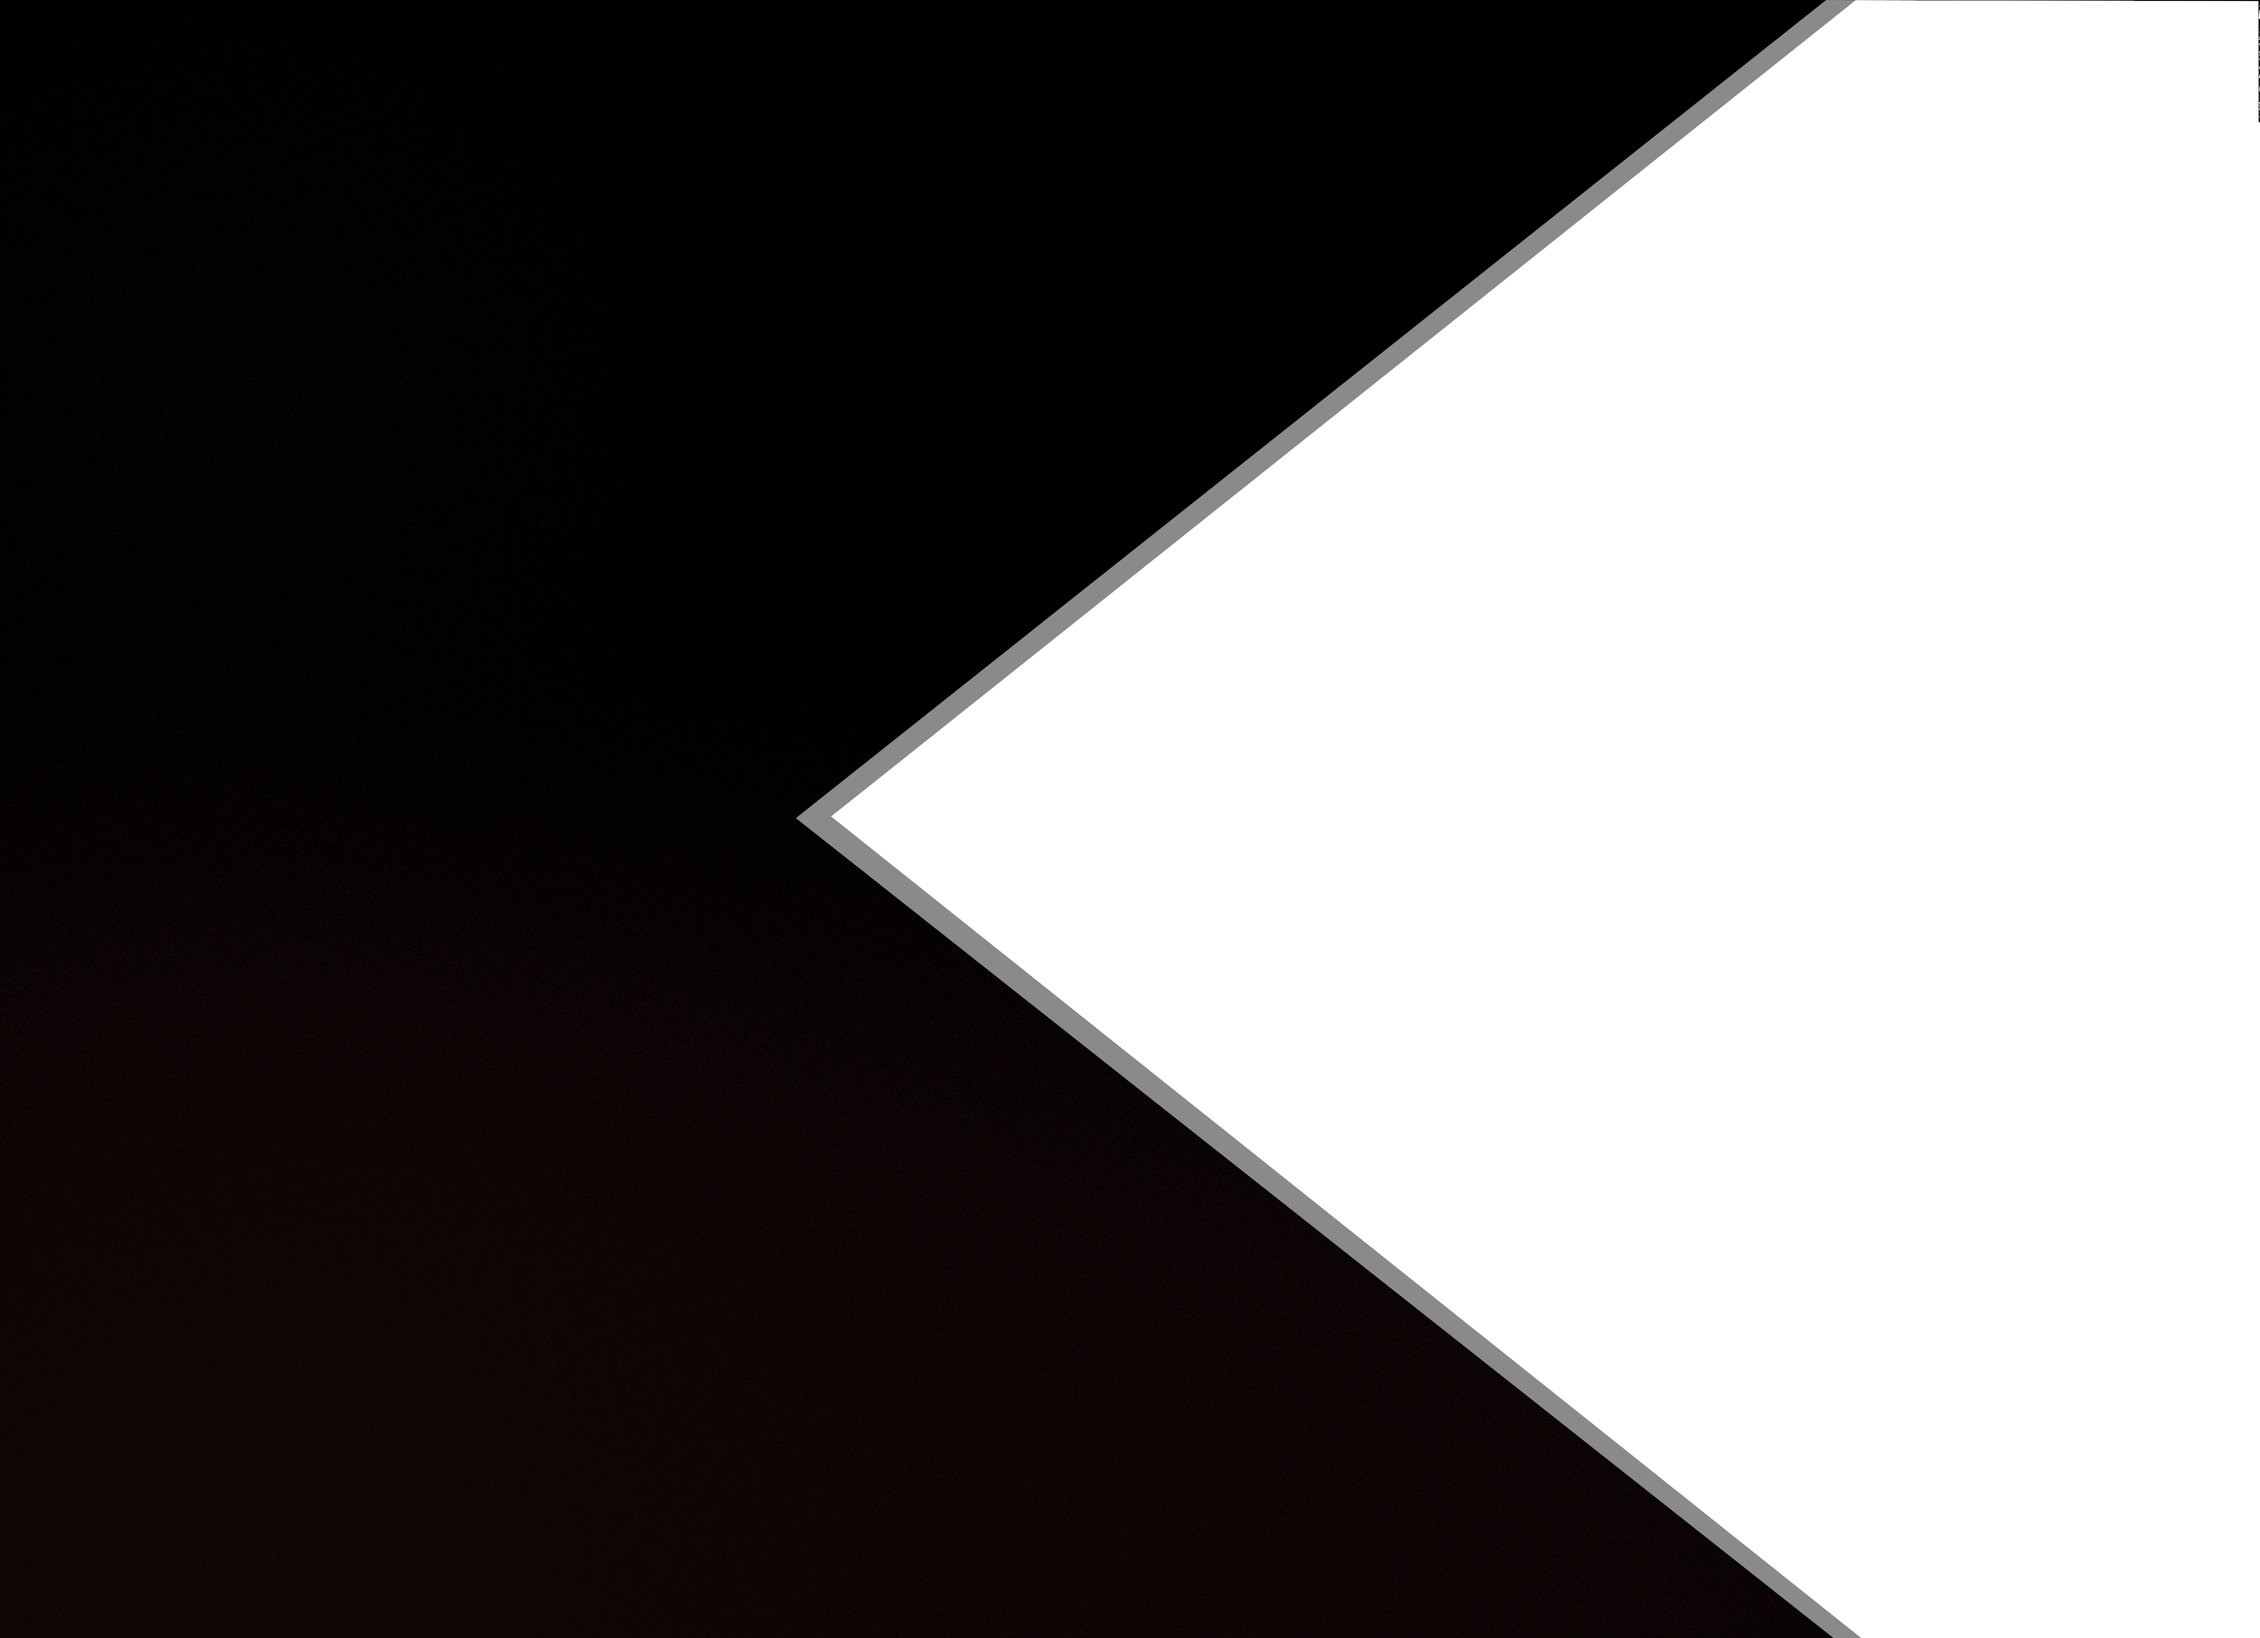
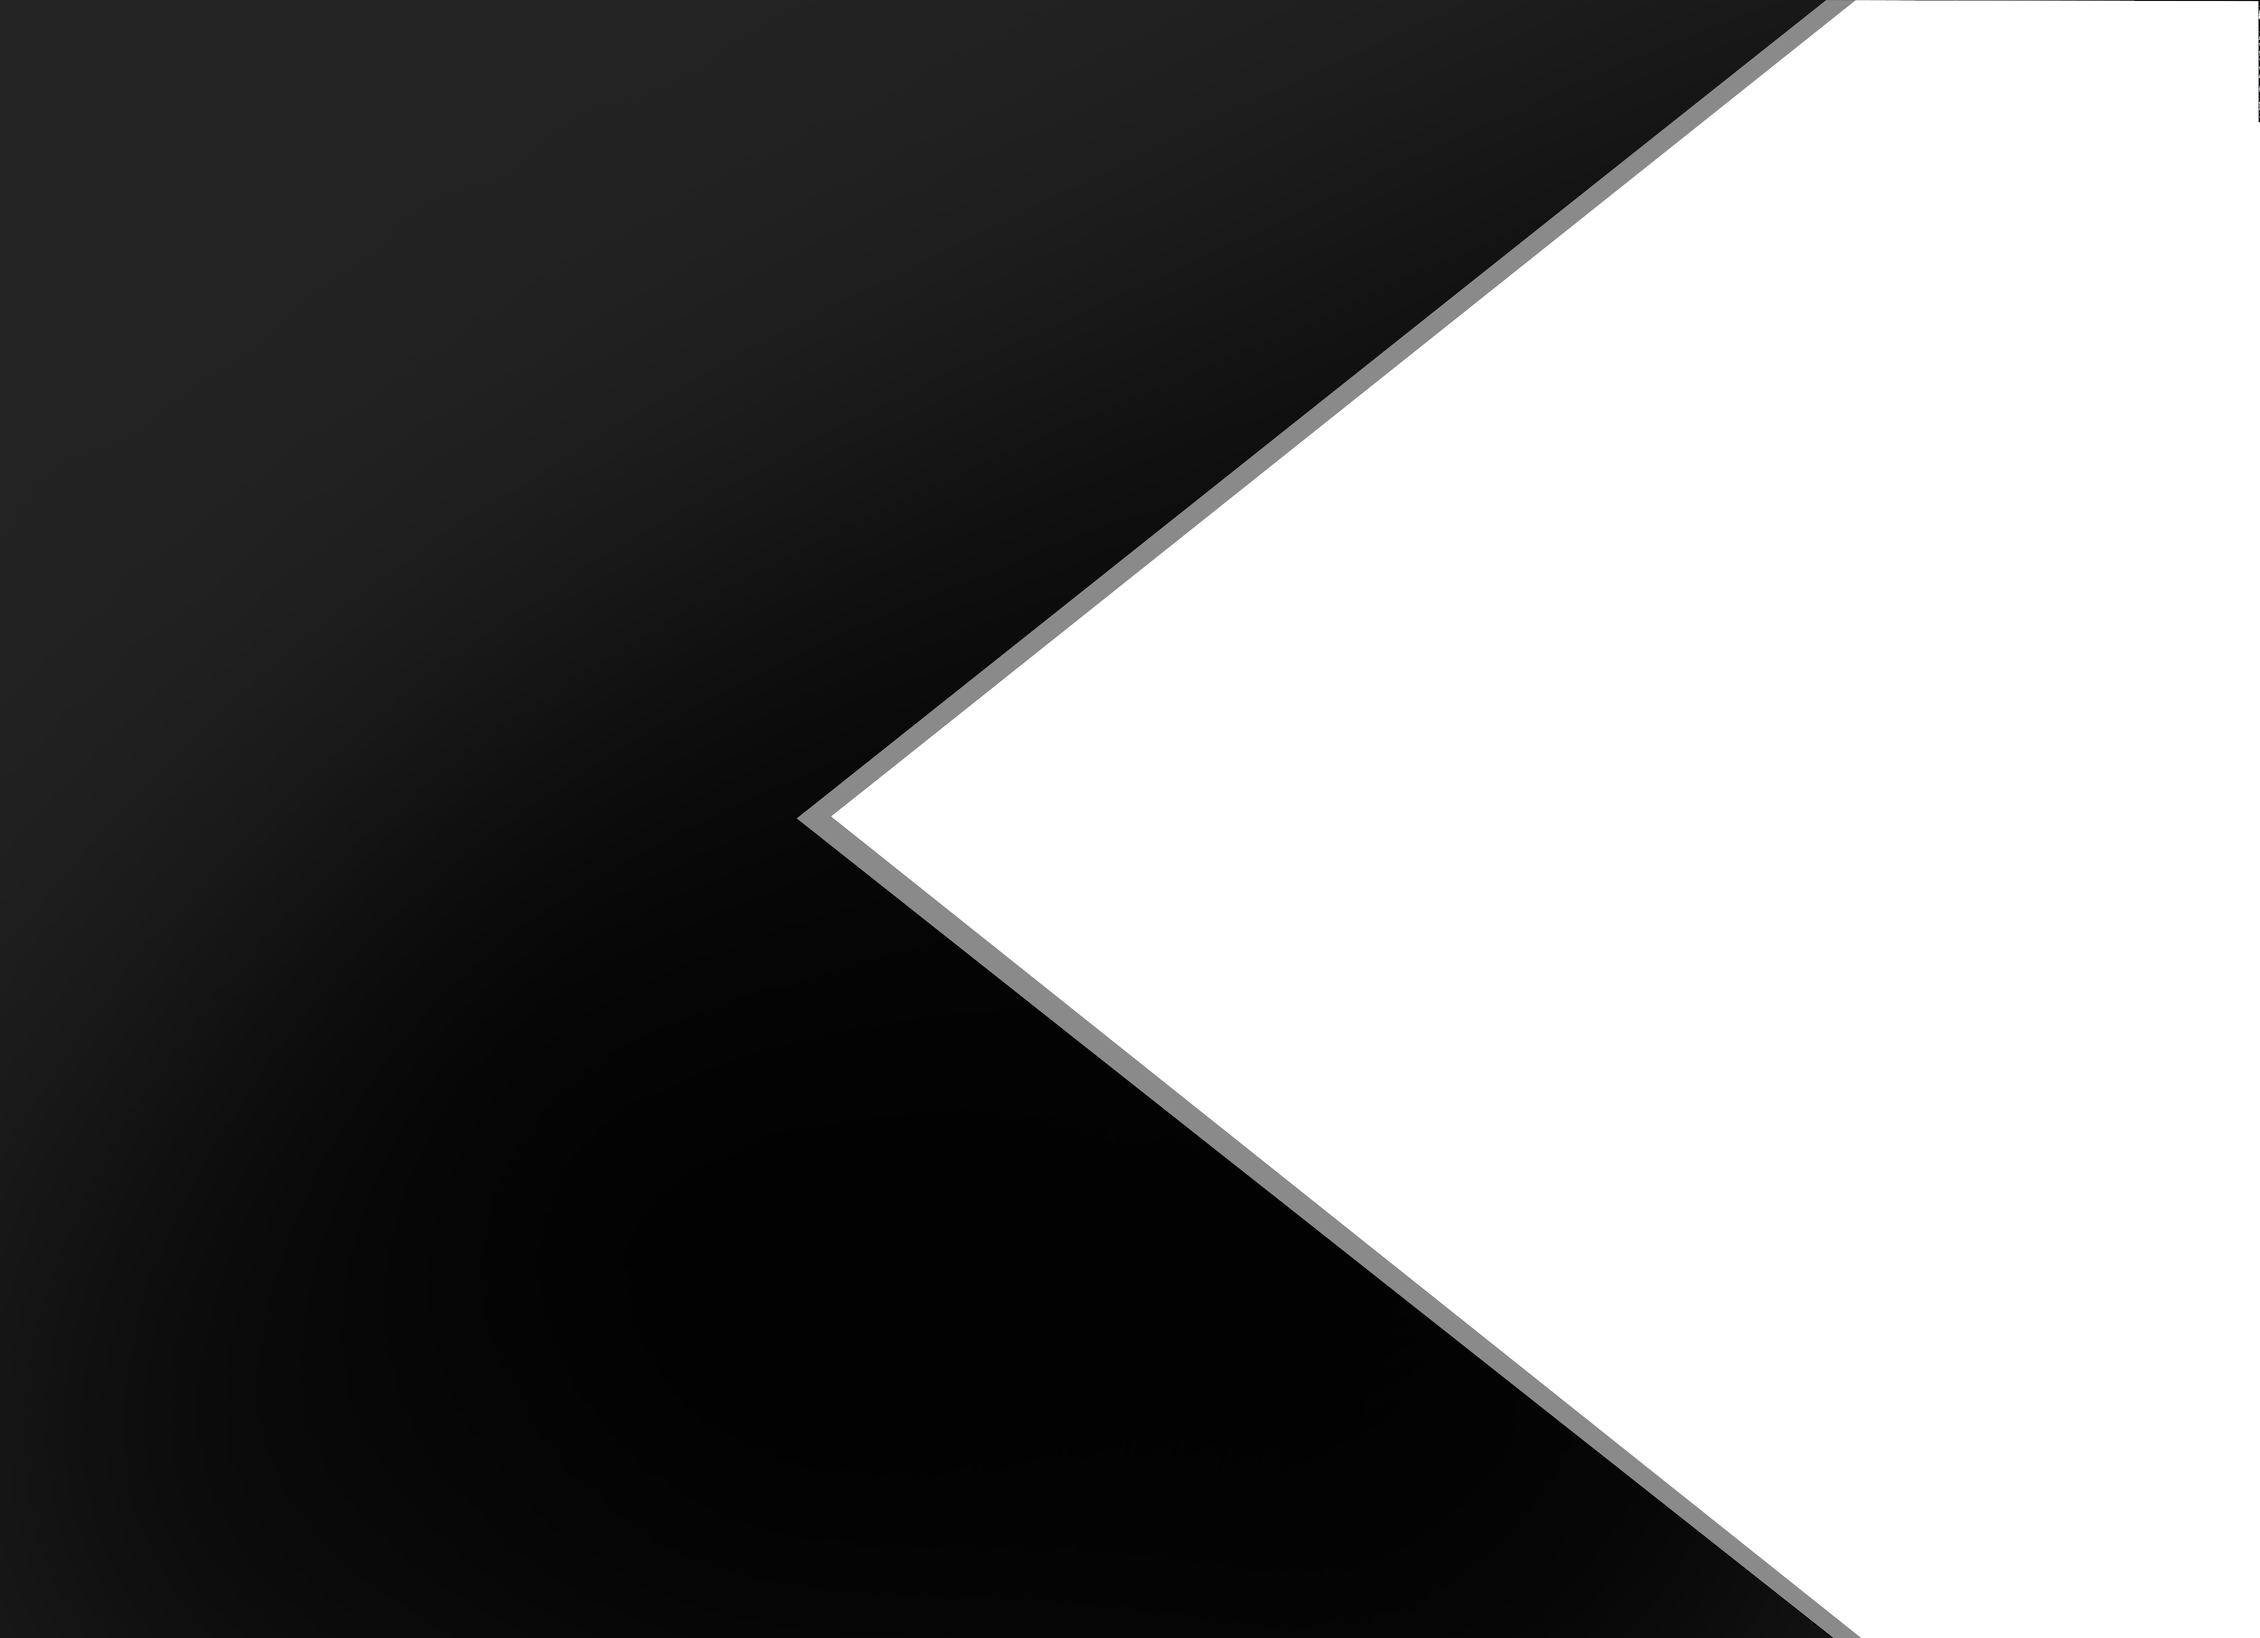
change fade

Changed region(s): [[0.0, 0.0, 0.7812, 0.6863]]

diff --git a/css/style-cs.css b/css/style-cs.css
@@ -393,7 +393,7 @@ display: none;
   box-shadow: 0px 0.5px 0px 0px #404352;
  }
  .btn.blue {
-   background-color: #000000;
+   background-color: #313131;
  }
 
  @media (min-width: 600px) {
@@ -421,7 +421,7 @@ display: none;
  }
  a:hover.btn.blue {
     color: #f7f7f7;
-    background-color: #171921;
+    background-color: #484848;
     border: 1px solid #dbdada;
   }
   #bottom-btn1{
@@ -522,7 +522,7 @@ background: #484848;
   margin-top: 22px;
 }
 .in-touch {
-  background-image: url(../images/myphoto2.png);
+  background-image: url(../images/myphoto2tre.png);
   max-height: 100%;
   background-repeat: no-repeat;
   background-position: right top;
